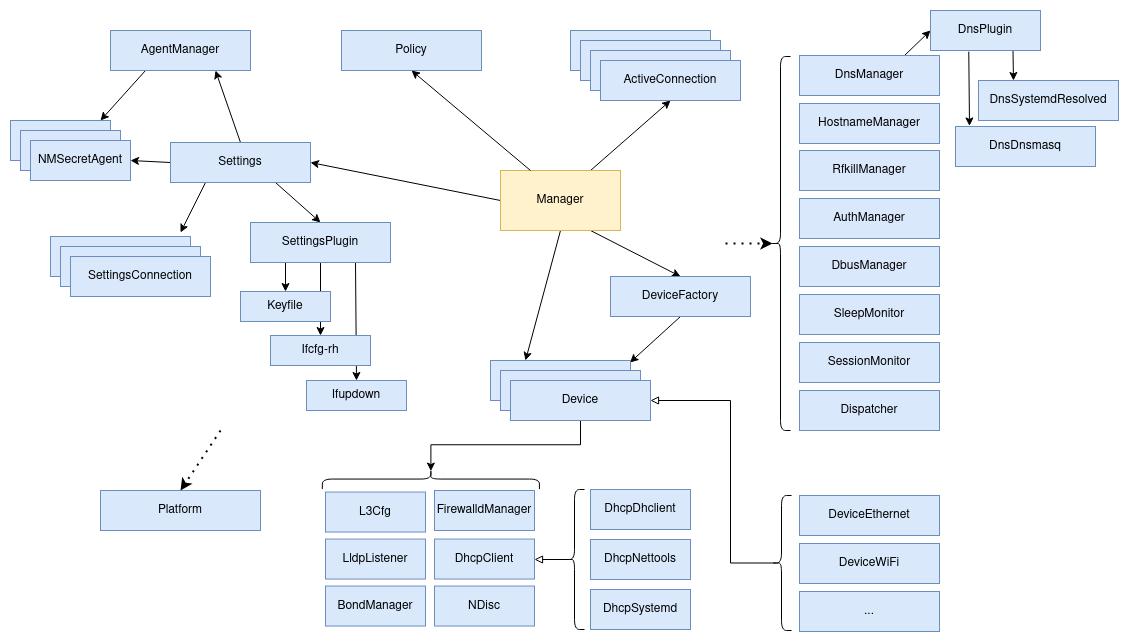
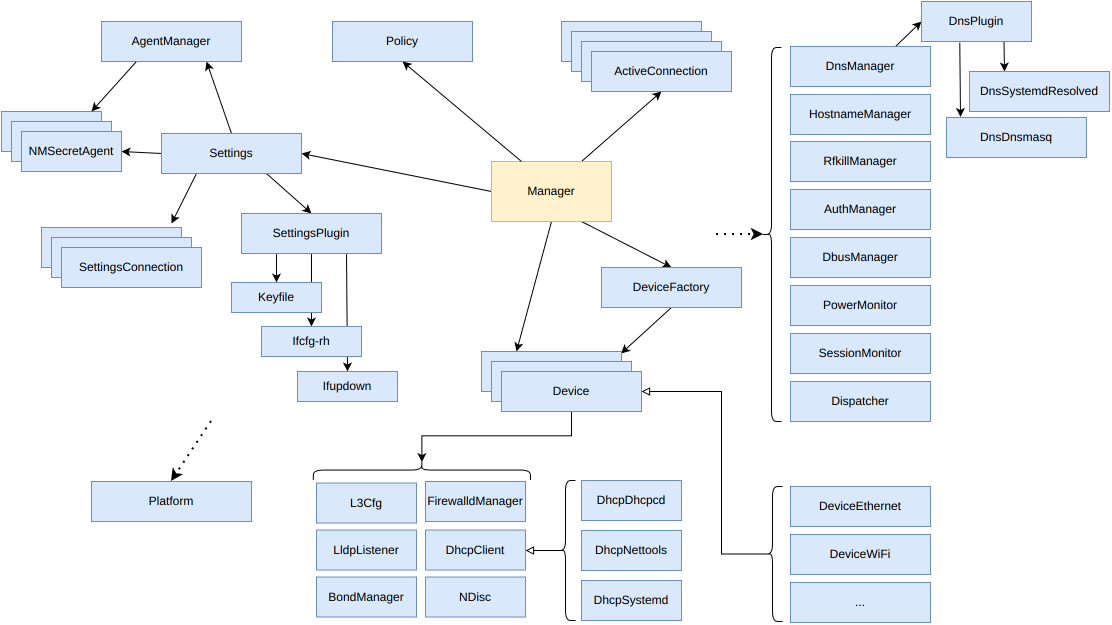
docs: update daemon diagram for current components
Relabel the removed dhclient DHCP backend to dhcpcd and the renamed
SleepMonitor component to PowerMonitor (src/core/nm-power-monitor.c), and
regenerate the PNG.

diff --git a/docs/internal/daemon.md b/docs/internal/daemon.md
@@ -158,7 +158,7 @@ The diagram shows other objects on the right side:
  - *DbusManager*: creates a connection to the system D-Bus instance
     and allows exporting objects
  
- - *SleepMonitor*: gets notifications for sleep and wake events by
+ - *PowerMonitor*: gets notifications for sleep and wake events by
     registering to the available subsystem provided by the distro such
     as systemd-logind or ConsoleKit.
     
